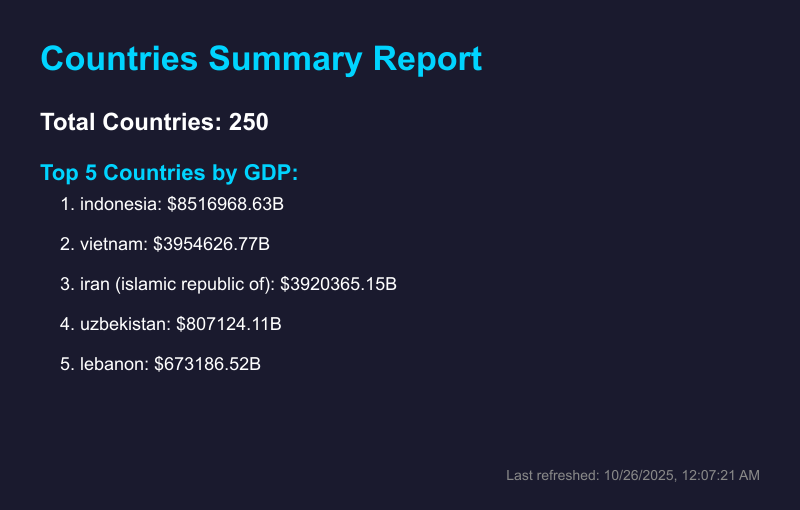
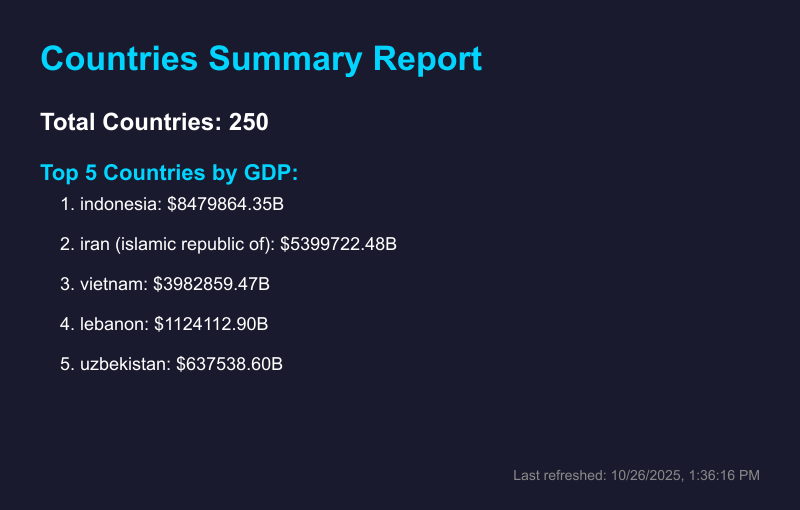
editted country service

diff --git a/src/modules/countries/countries.service.ts b/src/modules/countries/countries.service.ts
@@ -234,7 +234,7 @@ export class CountriesService {
       this.logger.log(
         `⏳ Step 2: Processing ${data.length} countries in batches...`,
       );
-      const batchSize = 10;
+      const batchSize = 30;
       let processed = 0;
       let created = 0;
       let updated = 0;
@@ -343,13 +343,24 @@ export class CountriesService {
       this.logger.log(`   Total Processed: ${processed}`);
       this.logger.log('═══════════════════════════════════════');
 
-      return { created, updated, total: processed };
+      return {
+        message: 'Countries data refreshed successfully',
+        total_countries: data.length,
+        last_refreshed_at: new Date(),
+      };
     } catch (err) {
       this.logger.error('═══════════════════════════════════════');
       this.logger.error('❌ UPLOAD FAILED');
       if (err instanceof Error) {
         this.logger.error(`Error: ${err.message}`);
         this.logger.error(`Stack: ${err.stack}`);
+        throw new HttpException(
+          {
+            error: 'External data source unavailable',
+            details: `Could not fetch data from ${this.api_countries}`,
+          },
+          HttpStatus.SERVICE_UNAVAILABLE,
+        );
       } else {
         this.logger.error(`Error: ${JSON.stringify(err)}`);
       }
@@ -371,7 +382,7 @@ export class CountriesService {
           error: 'Country not Found',
         });
       }
-      return data;
+      return{...data,name:this.capitalizeFirstWord(data.name)};
     } catch (error) {
       if (error instanceof HttpException) {
         throw error;
@@ -404,7 +415,12 @@ export class CountriesService {
       const filters: any = {};
       const orderBy: any = {};
       if (!region && !currency && !sort) {
-        return await this.db.country.findMany({orderBy});
+       const countries = await this.db.country.findMany({ orderBy });
+       const capitalizedCountries = countries.map(country => ({
+  ...country,
+  name: this.capitalizeFirstWord(country.name),
+}));
+    return capitalizedCountries
       }
       if (region) {
         const formatted_region = this.capitalizeFirstWord(region);
@@ -421,17 +437,22 @@ export class CountriesService {
       } else {
         orderBy.estimated_gdp = 'desc';
       }
-      const country = await this.db.country.findMany({
+      const countries = await this.db.country.findMany({
         where: filters,
         orderBy: { estimated_gdp: filters.sort },
       });
-      if (!country || country.length === 0) {
+      if (!countries || countries.length === 0) {
         throw new NotFoundException({
           error: 'Country not found',
         });
       }
+      const capitalizedCountries = countries.map(country => ({
+  ...country,
+  name: this.capitalizeFirstWord(country.name),
+}));
+
       this.logger.debug('country retrieved successfully');
-      return country;
+      return capitalizedCountries;
     } catch (error) {
       if (error instanceof HttpException) {
         throw error;

diff --git a/src/modules/countries/countries.controller.ts b/src/modules/countries/countries.controller.ts
@@ -62,6 +62,9 @@ async getImage(@Res() res:Response){
       if(!deleted){
            throw new NotFoundException(`Country with Name ${name} not found`);
       }
+      return {
+        message:"Country deleted successfully"
+      }
  }
 
 }
